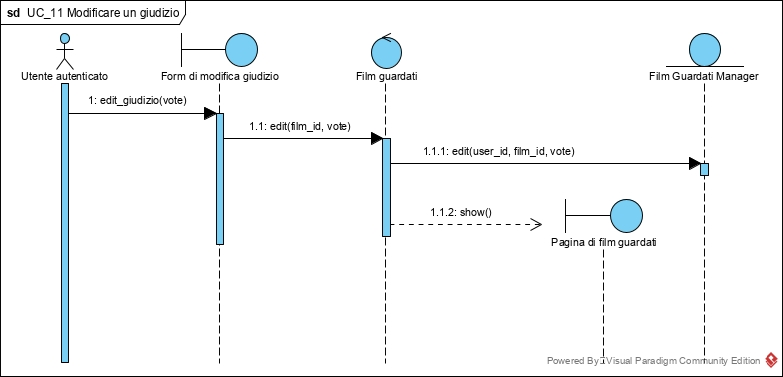
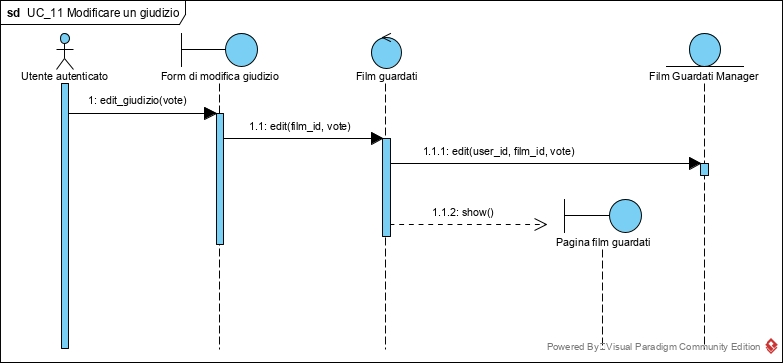
Ripartizione compiti liste e film guardati

diff --git a/Deliverables/Requirements Analysis Document.md b/Deliverables/Requirements Analysis Document.md
@@ -435,24 +435,24 @@ Condizione di uscita | Il sistema conferma che il film è stato suggerito.
 ---------|---
 Attori | Utente autenticato.
 Condizione di entrata | L’utente si trova nell'area di aggiunta di un giudizio.
-Flusso di eventi | <br/><ol><li>L’utente inserisce un giudizio<li>Moovie aggiungerà il film (col voto relativo) alla lista “Film guardati”, e sarà in grado di suggerire meglio i film all’utente</ol>
-Condizione di uscita | L’utente vedrà il proprio giudizio all’interno dei “Film guardati”.
+Flusso di eventi | <br/><ol><li>L’utente inserisce un giudizio<li>Moovie aggiunge il film (col voto relativo) ai film guardati, e rimanda l'utente alla pagina del film</ol>
+Condizione di uscita | Il film (e il giudizio) è stato salvato nei film guardati.
 
 #### UC_11: Modificare un giudizio
 **Nome** | **Modificare un giudizio**
 ---------|---
 Attori | Utente autenticato.
-Condizione di entrata | L’utente si trova nella pagina dei film guardati.
-Flusso di eventi | <br/><ol><li>L’utente seleziona il giudizio da modificare e inserisce il nuovo giudizio<li>Moovie modificherà il giudizio sul film presente nella lista “Film guardati”</ol>
-Condizione di uscita | L’utente vedrà il proprio giudizio all’interno dei “Film guardati”.
+Condizione di entrata | L’utente si trova nell'area di modifica di un giudizio.
+Flusso di eventi | <br/><ol><li>L’utente inserisce il nuovo giudizio<li>Moovie modificherà il giudizio sul film presente nei film guardati</ol>
+Condizione di uscita | Il giudizio verrà aggiornato.
 
 #### UC_12: Rimuovere un giudizio
 **Nome** | **Rimuovere un giudizio**
 ---------|---
 Attori | Utente autenticato.
 Condizione di entrata | L’utente si trova nella pagina dei film guardati.
-Flusso di eventi | <br/><ol><li>L’utente seleziona il giudizio da rimuovere<li>Moovie rimuoverà il film (e il voto) dalla lista “Film guardati”</ol>
-Condizione di uscita | Il film verrà rimosso dai “Film guardati”.
+Flusso di eventi | <br/><ol><li>L’utente seleziona il giudizio da rimuovere<li>Moovie rimuove il giudizio, e aggiorna la pagina dei film guardati</ol>
+Condizione di uscita | Il giudizio verrà rimosso.
 
 #### UC_13: Suggerimento automatico di un film
 **Nome** | **Suggerimento automatico di un film**
@@ -470,25 +470,25 @@ Condizione di uscita | Il sistema suggerisce il film che è stato selezionato.
 ---------|---
 Attori | Utente autenticato.
 Condizione di entrata | L’utente si trova nella pagina di creazione di una lista.
-Flusso di eventi | <br/><ol><li>L’utente inserisce il nome della lista nel campo apposito<li>L’utente sceglie i film che desidera inserire all’interno della propria lista<li>L’utente sceglie la visibilità della propria lista (tutti, amici, solo io)<li>Il sistema crea la lista e notifica l’utente</ol>
+Flusso di eventi | <br/><ol><li>L’utente inserisce il nome e sceglie la visibilità (tutti, amici, solo tu) della lista da creare<li>Il sistema porta l'utente nella pagina della lista appena creata</ol>
 Condizione di uscita | La lista viene creata.
-Eccezioni | L’utente non ha selezionato nessun film da inserire.<br/>L’utente ha inserito un nome già esistente tra le sue liste.
+Eccezioni | L’utente ha inserito, come nome della nuova lista, il nome di una propria lista già esistente.
 
 #### UC_15: Modificare una lista
 **Nome** | **Modificare una lista**
 ---------|---
 Attori | Utente autenticato.
-Condizione di entrata | L’utente si trova nella pagina della sua lista da modificare.
-Flusso di eventi | <br/><ol><li>L’utente inserisce il nuovo nome della lista che vuole modificare<li>L’utente modifica i privilegi della lista (tutti, amici, solo io)<li>Il sistema riceve le nuove informazioni, le applica alla lista (rifacendo il controllo di sicurezza) e invia una notifica di avvenuta modifica all’utente</ol>
-Condizione di uscita | Il sistema conferma che la lista è stata modificata.
+Condizione di entrata | L’utente si trova nella pagina di una sua lista da modificare.
+Flusso di eventi | <br/><ol><li>L’utente inserisce il nuovo nome e/o la nuova visibilità (tutti, amici, solo tu) della lista che vuole modificare<li>Il sistema aggiorna la lista, scollega gli eventuali follower non più compatibili con la nuova visibilità della lista, e porta l'utente nella pagina della lista modificata</ol>
+Condizione di uscita | La lista viene modificata.
 
 #### UC_16: Eliminare una lista
 **Nome** | **Eliminare una lista**
 ---------|---
 Attori | Utente autenticato.
 Condizione di entrata | L’utente si trova nella pagina della sua lista da eliminare.
-Flusso di eventi | <br/><ol><li>L’utente elimina la lista<li>Il sistema cancella la lista</ol>
-Condizione di uscita | Il sistema conferma che la lista è stata cancellata.
+Flusso di eventi | <br/><ol><li>L’utente attiva la funzione di eliminazione<li>Il sistema cancella la lista, e conferma all'utente la cancellazione</ol>
+Condizione di uscita | La lista viene cancellata.
 
 #### UC_17: Aggiornare la presenza di film nelle liste
 **Nome** | **Aggiornare la presenza di film nelle liste**
@@ -496,7 +496,7 @@ Condizione di uscita | Il sistema conferma che la lista è stata cancellata.
 Attori | Utente autenticato.
 Condizione di entrata | L’utente deve selezionare le liste in cui inserire un film, e deselezionare le liste in cui rimuovere un film, nell'area di aggiornamento presenza film in liste.
 Flusso di eventi | <br/><ol><li>L’utente seleziona le liste in cui inserire il film, e deseleziona le liste in cui rimuovere il film se già presente (quindi già selezionate)<li>Il sistema aggiunge il film alle liste selezionate, e rimuove il film dalle liste deselezionate</ol>
-Condizione di uscita | Il film viene aggiunto/rimosso dalle liste selezionate/deselezionate.
+Condizione di uscita | Il film viene aggiunto alle liste selezionate, e rimosso dalle liste deselezionate.
 
 #### UC_18: Seguire liste altrui
 **Nome** | **Seguire liste altrui**
@@ -540,13 +540,13 @@ Condizione di uscita | Il sistema conferma che l'utente ha iniziato a seguire la
     * Conferma amici suggeriti: notifica l'avvenuto suggerimento di film agli amici selezionati
 * Film:
     * Form di aggiunta giudizio: richiede l'inserimento del giudizio da salvare
-    * Pagina di film guardati: mostra i giudizi
     * Form di modifica giuizio: richiede l'inserimento del giudizio da aggiornare
+    * Pagina film guardati: mostra i giudizi
     * Pagina di suggerimento automatico: permette di richiedere il suggerimento automatico di un film sconosciuto
     * Area di presentazione film suggerito: suggerisce un film
 * Liste:
     * Form di creazione lista: richiede l'inserimento delle informazioni necessarie alla creazione di una nuova lista
-    * Conferma lista modificata: notifica l'avvenuta modifica di una lista
+    * Form di modifica lista: richiede l'inserimento delle informazioni da aggiornare in una lista
     * Conferma lista eliminata: notifica l'avvenuta rimozione di una lista
     * Form di aggiornamento presenza film in liste: richiede la selezione delle sole proprie liste in cui un determinato
     film deve essere presente
@@ -564,12 +564,17 @@ Condizione di uscita | Il sistema conferma che l'utente ha iniziato a seguire la
     * Amicizie: richiede, accetta e rifiuta le amicizie
     * Suggerimenti amici: permette ad un account di suggerire un film a uno o più account amici
 * Film:
-    * Film guardati: aggiunge, modifica e rimuove il giudizio di un film
+    * Aggiungi film guardato: aggiunge il giudizio di un film
+    * Modifica film guardato: modifica un giudizio dato ad un film
+    * Rimuovi film guardato: rimuove un giudizio dato ad un film
     * Suggerimenti automatici: suggerisce un film ad un account in base alle sue preferenze cinematografiche
 * Liste:
-    * Liste: crea, modifica, cancella una lista. Permette a un account di seguire una lista. Inoltre, fornendo un film
-    e una collezione di liste possedute da un account, inserisce questo film solo nelle liste fornite, rimuovendolo (se
-    presente) in tutte le altre.
+    * Crea lista: crea una nuova lista
+    * Modifica lista: modifica una lista esistente
+    * Cancella lista: cancella una lista esistente
+    * Inserisci film solo in liste: fornendo un film e un sottoinsieme delle liste possedute da un account, inserisce
+    questo film solo nelle liste fornite, rimuovendolo (se presente) in tutte le altre liste dell'account.
+    * Segui lista: permette a un account di seguire una lista
 
 ### Manager objects
 * Film Manager:
@@ -580,7 +585,7 @@ Condizione di uscita | Il sistema conferma che l'utente ha iniziato a seguire la
 * Account Manager:
     * cerca utenti tramite fulltext e criteri avanzati
     * controlla l'esistenza di un utente con un determinato indirizzo e-mail
-    * crea account composto da: nome, cognome, indirizzo e-mail e password
+    * crea un account composto dalle seguenti informazioni: nome, cognome, indirizzo e-mail e password
     * autentica un account
     * controlla che un account abbia una determinata password
     * aggiorna la password di un account
@@ -597,7 +602,7 @@ Condizione di uscita | Il sistema conferma che l'utente ha iniziato a seguire la
     * rimuove il giudizio di un film guardato
 * Lista Manager
     * verifica se un utente possiede una lista con un determinato nome
-    * crea una lista composta da: nome, visibilità (pubblica, amici, privata **(va messo qui?)**) ed almeno un film
+    * crea una lista composta dalle seguenti informazioni: nome e visibilità (tutti, amici, solo tu)
     * comunica se un utente è proprietario di una lista
     * modifica nome e visibilità di una lista
     * cancella una lista
@@ -608,10 +613,11 @@ Condizione di uscita | Il sistema conferma che l'utente ha iniziato a seguire la
 * Film: rappresenta le informazioni di un film
 * Artista: rappresenta le informazioni di un artista
 * Utente: rappresenta i dati di un utente
-* Lista: rappresenta le informazioni di una lista e film che contiene
+* E-Mail cambio password: descrive la procedura per cambiare la password
 * Amicizia: rappresenta le informazioni di una richiesta di amicizia
 * Amicizia Accettata: specializza una amicizia integrando le informazioni di accettazione di questa
-* E-Mail cambio password: descrive la procedura per cambiare la password
+* Film Guardato: rappresenta il giudizio dato da un account ad un film in un dato orario
+* Lista: rappresenta le informazioni di una lista e film che contiene
 
 ## Class diagrams
 ![](Class%20diagrams/Main%20class%20diagram.jpg)
